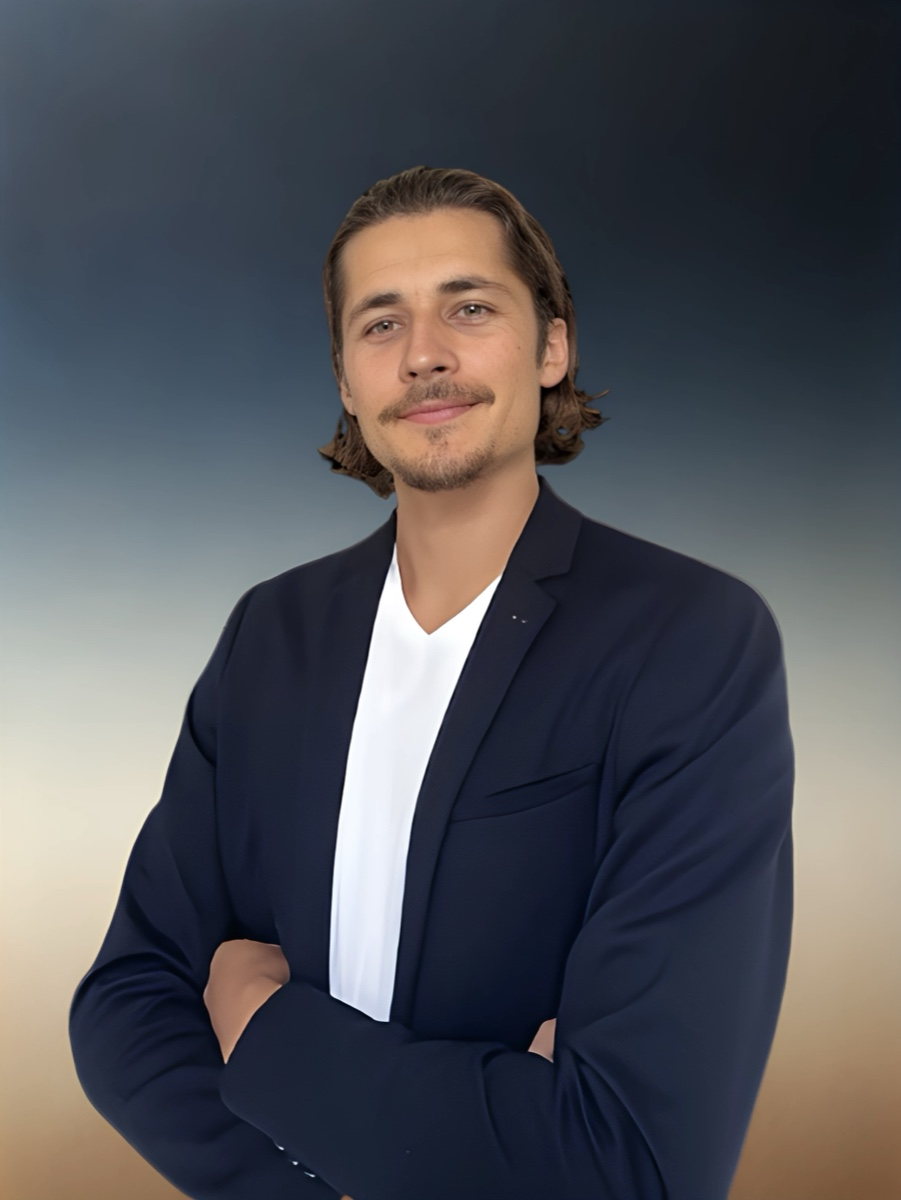
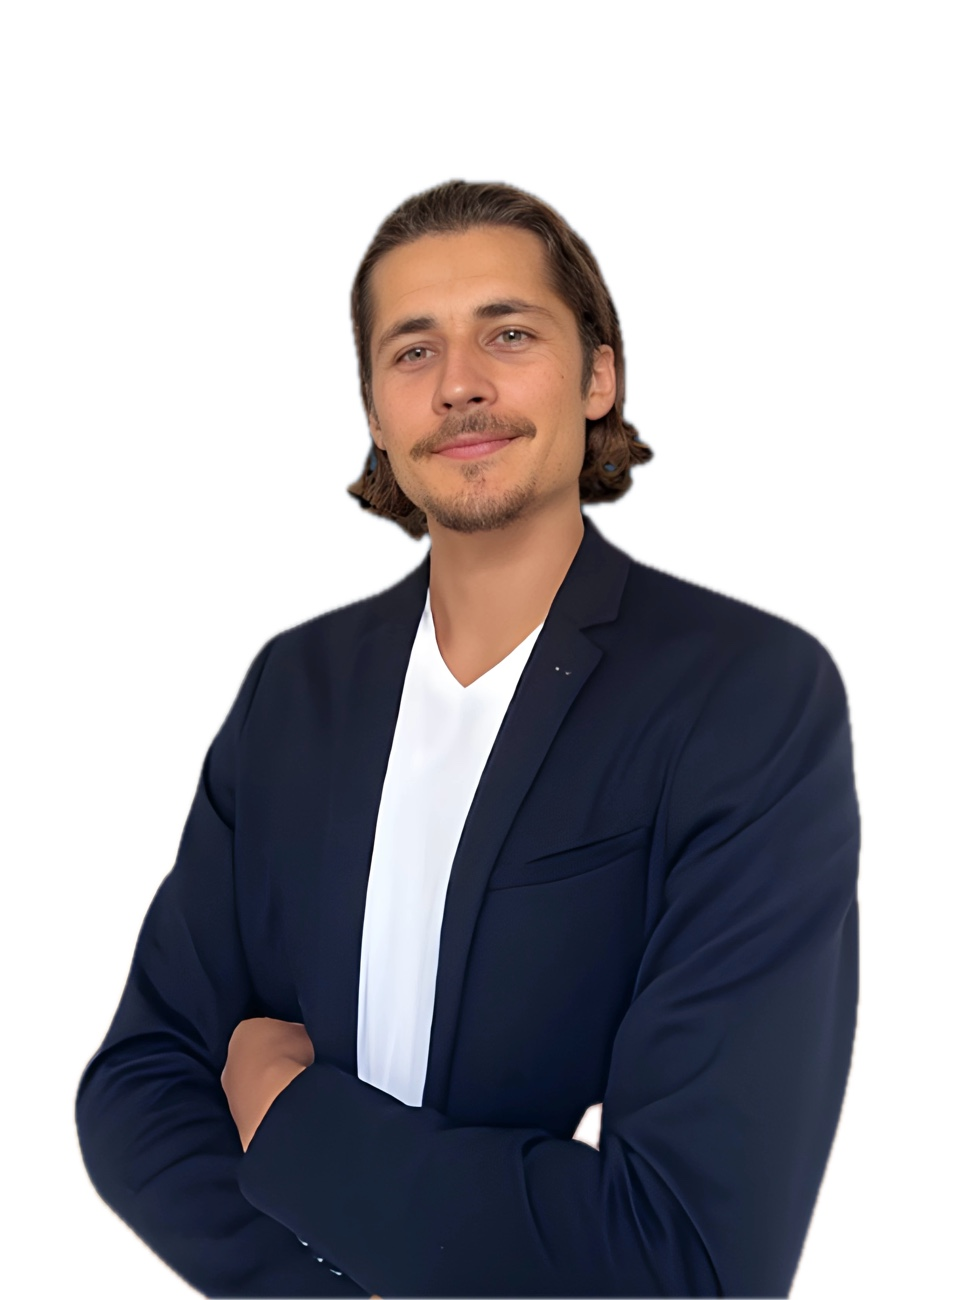
Photo À propos détourée sur fond blanc (détourage IA macOS Vision)

diff --git a/styles.css b/styles.css
@@ -509,7 +509,8 @@ h1, h2, h3, h4 { font-weight: 600; line-height: 1.05; letter-spacing: -0.035em; 
   margin: 0;
   border-radius: 26px;
   overflow: hidden;
-  background: linear-gradient(180deg, #f2f4f7 0%, #e6e9ee 100%);
+  background: #ffffff;
+  border: 1px solid var(--grey-200);
   box-shadow: 0 50px 100px -45px rgba(0,0,0,0.4);
   position: relative;
 }
